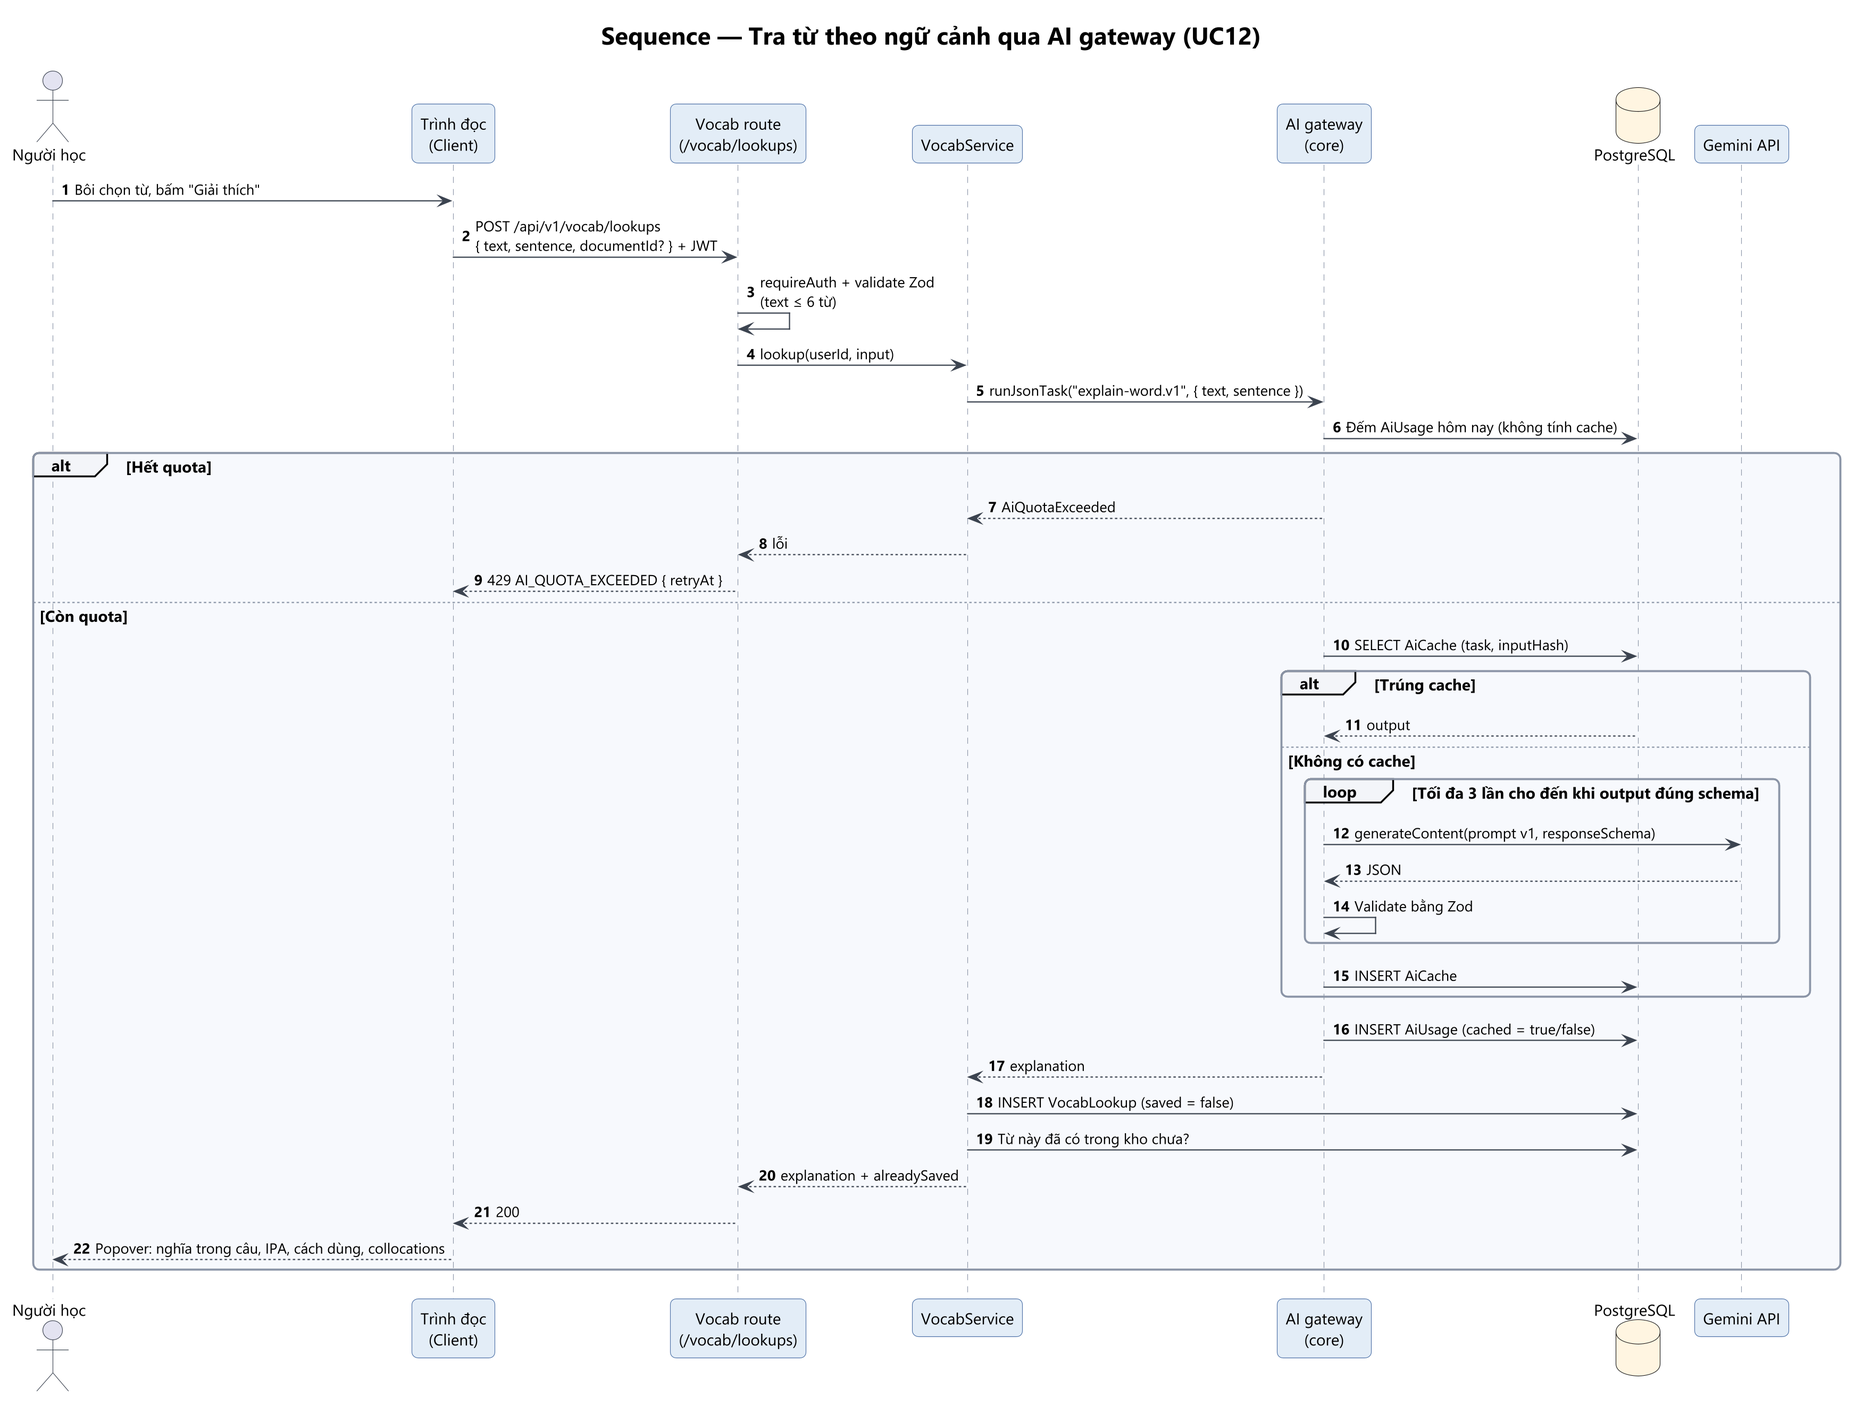
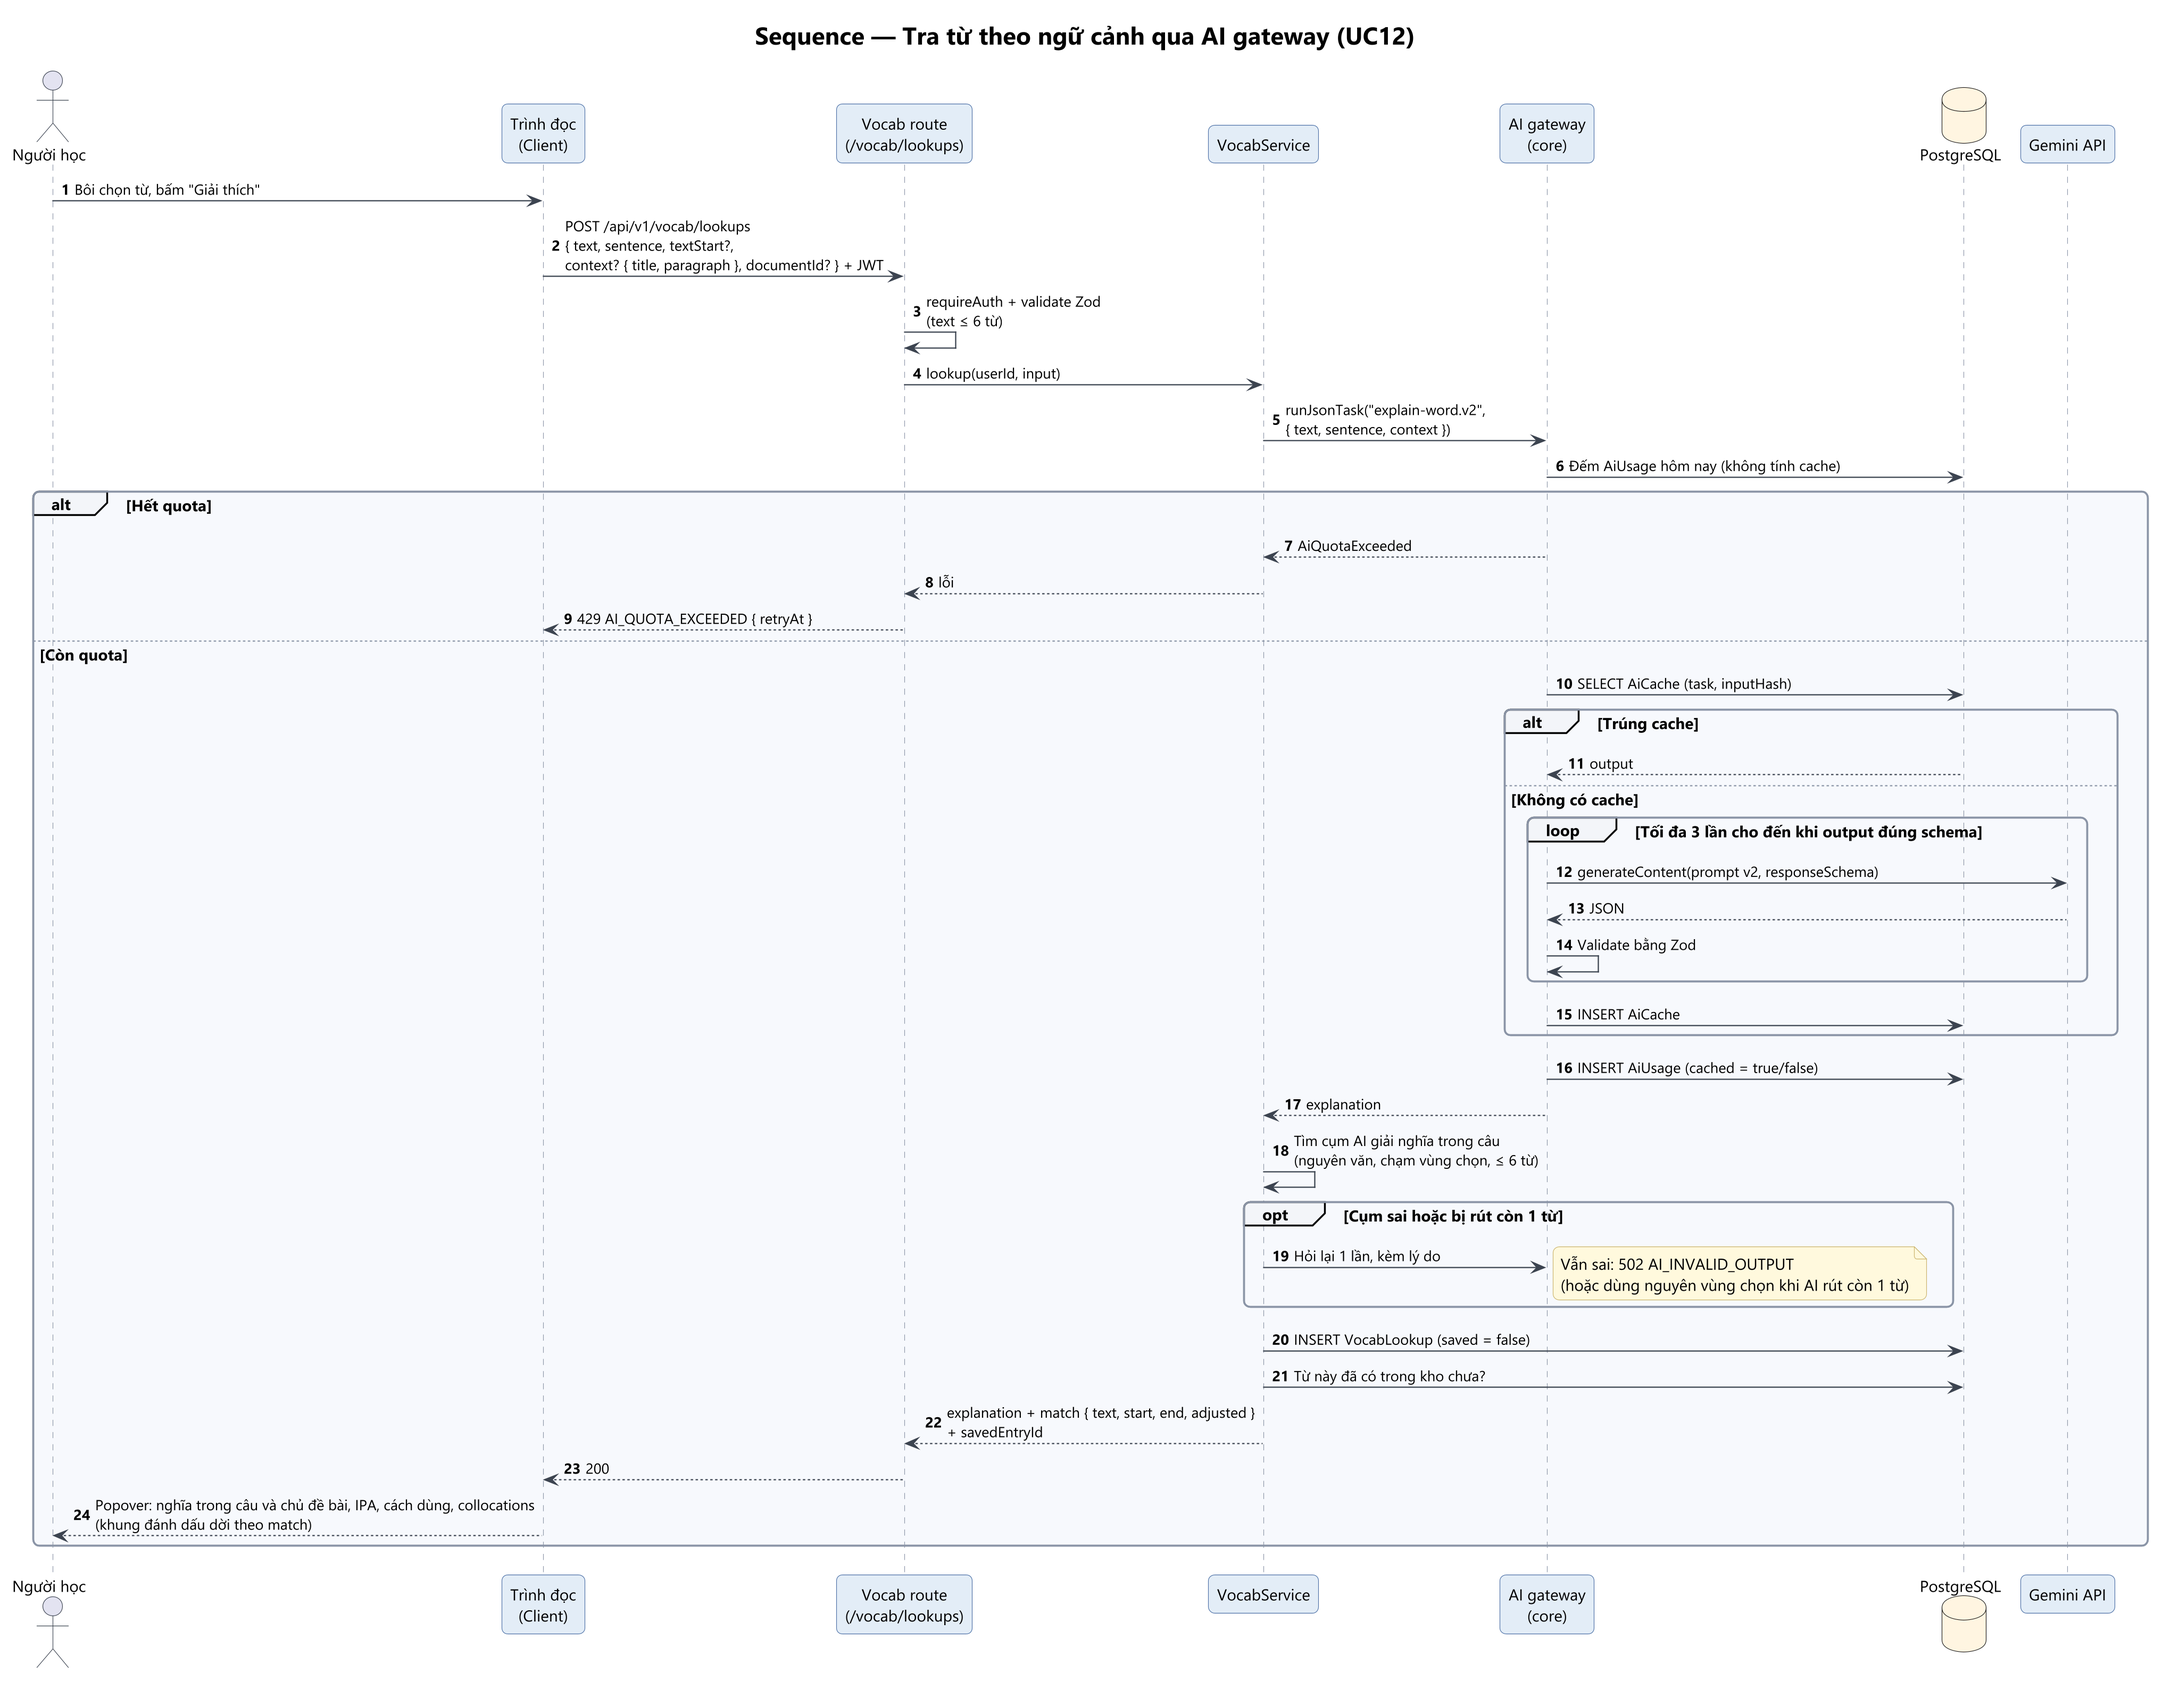
docs(diagrams): sync the ERD and sequence diagrams with the code for v1.0
Refs #229

diff --git a/Analysis_Design/02_UseCase/use-case-specs.md b/Analysis_Design/02_UseCase/use-case-specs.md
@@ -83,8 +83,8 @@ Thuộc issue **P0-03** (vocab, flashcard, exam) và **P0-04** (auth, library, s
 |---|---|
 | Actor | Người học, Gemini AI |
 | Tiền điều kiện | Đang mở một tài liệu trong trình đọc (UC11) |
-| Luồng chính | 1. Người học bôi chọn một từ hoặc cụm từ (tối đa 6 từ). 2. Trình đọc hiện nút "Giải thích" (hoặc phím tắt). 3. Client gửi từ + câu chứa từ. 4. Server tra AiCache; không có thì gọi Gemini qua AI gateway, kiểm tra kết quả bằng schema, lưu cache. 5. Server ghi `VocabLookup`, trả về: nghĩa tiếng Việt **đúng trong câu này**, định nghĩa tiếng Anh, IPA, loại từ, cách dùng, collocations, CEFR, chủ đề. 6. Trình đọc hiện popover giải thích |
-| Luồng thay thế / lỗi | 1a. Chọn quá 6 từ: nút Giải thích bị khóa, có gợi ý. 4a. Hết quota AI trong ngày: báo lỗi 429 kèm thời điểm được dùng lại. 4b. Gemini lỗi sau 2 lần thử lại: báo 503 "AI đang bận, thử lại sau" |
+| Luồng chính | 1. Người học bôi chọn một từ hoặc cụm từ (tối đa 6 từ). 2. Trình đọc hiện nút "Giải thích" (hoặc phím tắt). 3. Client gửi từ + câu chứa từ + vị trí chọn + tiêu đề và đoạn văn chứa từ. 4. Server tra AiCache; không có thì gọi Gemini qua AI gateway (task `explain-word.v2`, đọc chủ đề của bài trước khi dịch), kiểm tra kết quả bằng schema, lưu cache. 5. Server kiểm tra cụm AI giải nghĩa: nguyên văn trong câu, chạm vùng chọn, tối đa 6 từ (sai thì hỏi lại 1 lần). Chọn cụm có nghĩa thì giải nghĩa nguyên cụm; chọn cụm vô nghĩa thì rút về cụm có nghĩa gần nhất và trả vị trí mới. 6. Server ghi `VocabLookup`, trả về: nghĩa tiếng Việt **đúng trong câu và chủ đề bài**, định nghĩa tiếng Anh, IPA, loại từ, cách dùng, collocations, CEFR, chủ đề, và cụm thật sự được giải nghĩa. 7. Trình đọc dời khung đánh dấu theo cụm đó và hiện popover giải thích |
+| Luồng thay thế / lỗi | 1a. Chọn quá 6 từ: nút Giải thích bị khóa, có gợi ý. 4a. Hết quota AI trong ngày: báo lỗi 429 kèm thời điểm được dùng lại. 4b. Gemini không phản hồi sau 2 lần thử lại: báo 503 "AI đang bận, thử lại sau". 4c. AI hai lần trả cụm không nằm trong câu: báo 502 |
 | Hậu điều kiện | Có `VocabLookup`. Có thể tiếp tục UC13 |
 
 ## UC13 — Lưu từ vào kho
@@ -173,7 +173,7 @@ Thuộc issue **P0-03** (vocab, flashcard, exam) và **P0-04** (auth, library, s
 |---|---|
 | Actor | Người học, Gemini AI |
 | Tiền điều kiện | Bộ thẻ là của mình (kể cả bản đã chép), có ít nhất 4 thẻ |
-| Luồng chính | 1. Ở trang bộ thẻ, người học chọn "Luyện tập AI". 2. Chọn dạng câu (trắc nghiệm, điền chỗ trống, nối) và số câu (10 hoặc 20). 3. Client gửi `POST /flashcards/sets/:id/exercises`. 4. Server tra `AiCache` theo bộ thẻ + tham số; không có thì gọi task `generate-exercise.v1` qua AI gateway với danh sách thuật ngữ và định nghĩa. 5. Server kiểm tra từng câu: đúng schema dạng câu, đáp án nằm trong phương án, chỉ dùng từ của bộ thẻ; câu không đạt thì bỏ. 6. Trả về câu hỏi kèm đáp án. 7. Người học làm bài bằng đúng component dạng câu của phòng thi, bấm "Chấm" để xem đúng / sai và đáp án. 8. Có thể làm lại hoặc tạo bài khác |
+| Luồng chính | 1. Ở trang bộ thẻ, người học chọn "Luyện tập AI". 2. Chọn dạng câu (trắc nghiệm, điền chỗ trống, nối) và số câu (10 hoặc 20). 3. Client gửi `POST /flashcards/sets/:id/exercises`. 4. Server tra `AiCache` theo bộ thẻ + tham số; không có thì gọi task `generate-exercise.v2` qua AI gateway với danh sách thuật ngữ và định nghĩa. 5. Server kiểm tra từng câu: đúng schema dạng câu, đáp án nằm trong phương án, chỉ dùng từ của bộ thẻ; câu không đạt thì bỏ. 6. Trả về câu hỏi kèm đáp án. 7. Người học làm bài bằng đúng component dạng câu của phòng thi, bấm "Chấm" để xem đúng / sai và đáp án. 8. Có thể làm lại hoặc tạo bài khác |
 | Luồng thay thế / lỗi | 4a. Hết quota AI trong ngày: 429, báo thời điểm được dùng lại. 4b. Gemini lỗi sau 2 lần thử lại: 503 "AI đang bận, thử lại sau". 5a. Còn dưới một nửa số câu yêu cầu: báo lỗi, cho thử lại. 1a. Bộ thẻ ít hơn 4 thẻ: chế độ bị khóa |
 | Hậu điều kiện | Có `StudySession` chế độ `exercise`. Bài luyện tập không lưu DB, không đổi tiến độ SM-2 |
 

diff --git a/Analysis_Design/01_Database/data-dictionary.md b/Analysis_Design/01_Database/data-dictionary.md
@@ -31,7 +31,7 @@ Sơ đồ: [`erd-00-tong-quan.png`](erd-00-tong-quan.png) và các ERD theo modu
 | Cột | Kiểu | Bắt buộc | Ghi chú |
 |---|---|---|---|
 | id | uuid | ✓ | PK |
-| task | varchar(60) | ✓ | Tên và phiên bản task, ví dụ `explain-word.v1` |
+| task | varchar(60) | ✓ | Tên và phiên bản task, ví dụ `explain-word.v2` |
 | inputHash | char(64) | ✓ | SHA-256 của input đã chuẩn hóa. UNIQUE `(task, inputHash)` |
 | output | jsonb | ✓ | Kết quả đã qua validate Zod |
 | model | varchar(60) | ✓ | Model Gemini đã dùng |
@@ -55,7 +55,7 @@ Không gắn với người dùng: cùng một input dùng chung kết quả. Ri
 |---|---|---|---|
 | id | uuid | ✓ | PK |
 | ownerId | uuid | ✓ | FK → User |
-| storageKey | varchar(255) | ✓ | UNIQUE. Đường dẫn trong `uploads/` (local) hoặc key trên R2 |
+| storageKey | varchar(255) | ✓ | UNIQUE. Đường dẫn trong `uploads/` (local) hoặc key trên dịch vụ S3 (Backblaze B2 khi deploy) |
 | mimeType | varchar(100) | ✓ | Đã kiểm tra bằng nội dung file, không tin phần mở rộng |
 | sizeBytes | int | ✓ | |
 | originalName | varchar(255) | ✓ | |
